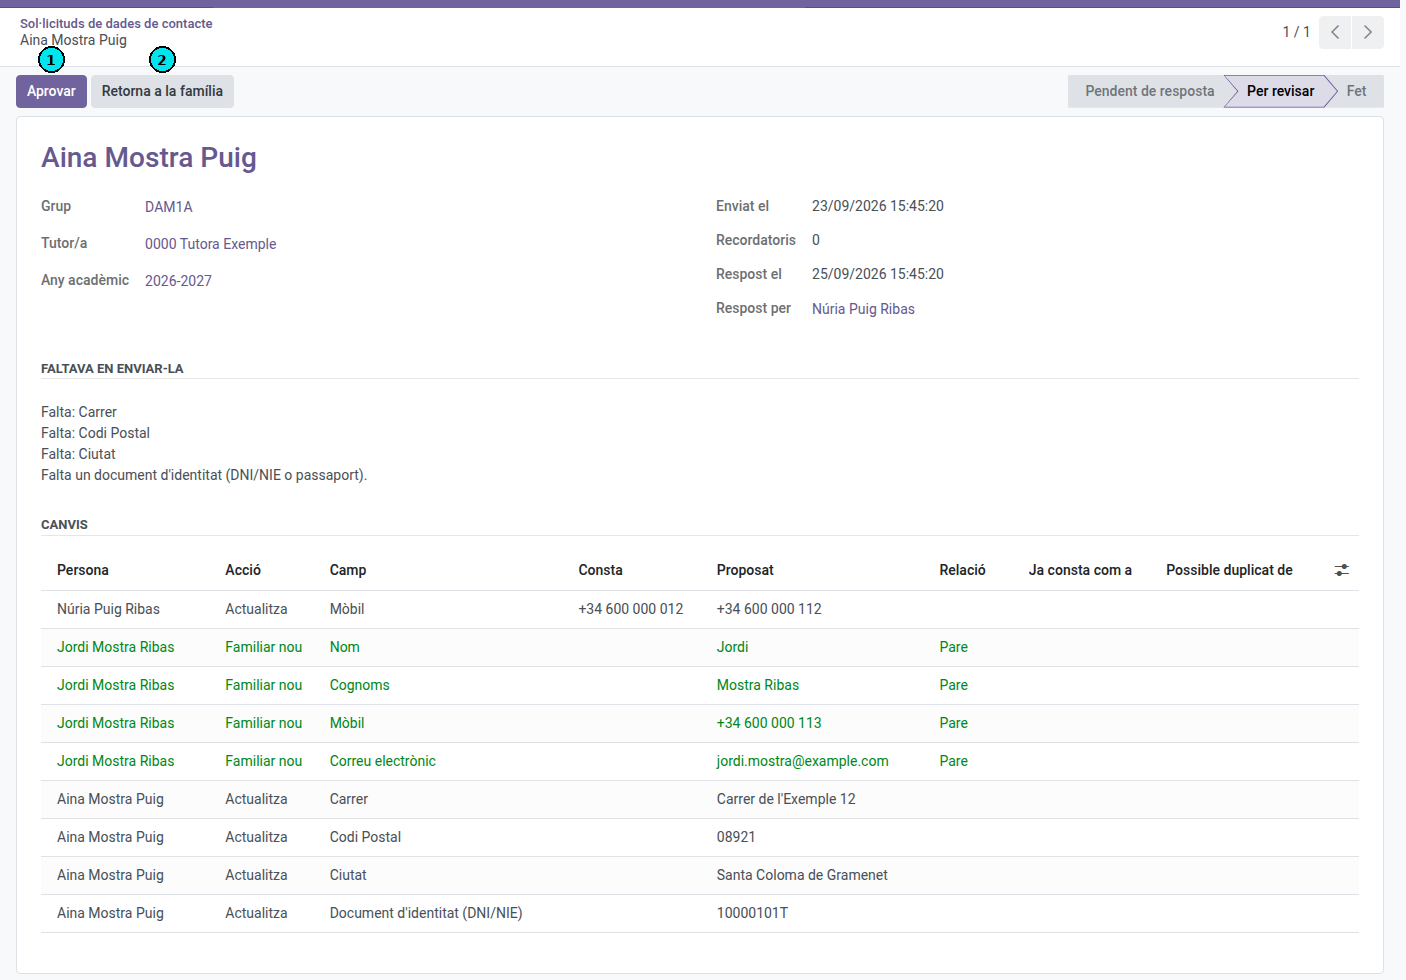
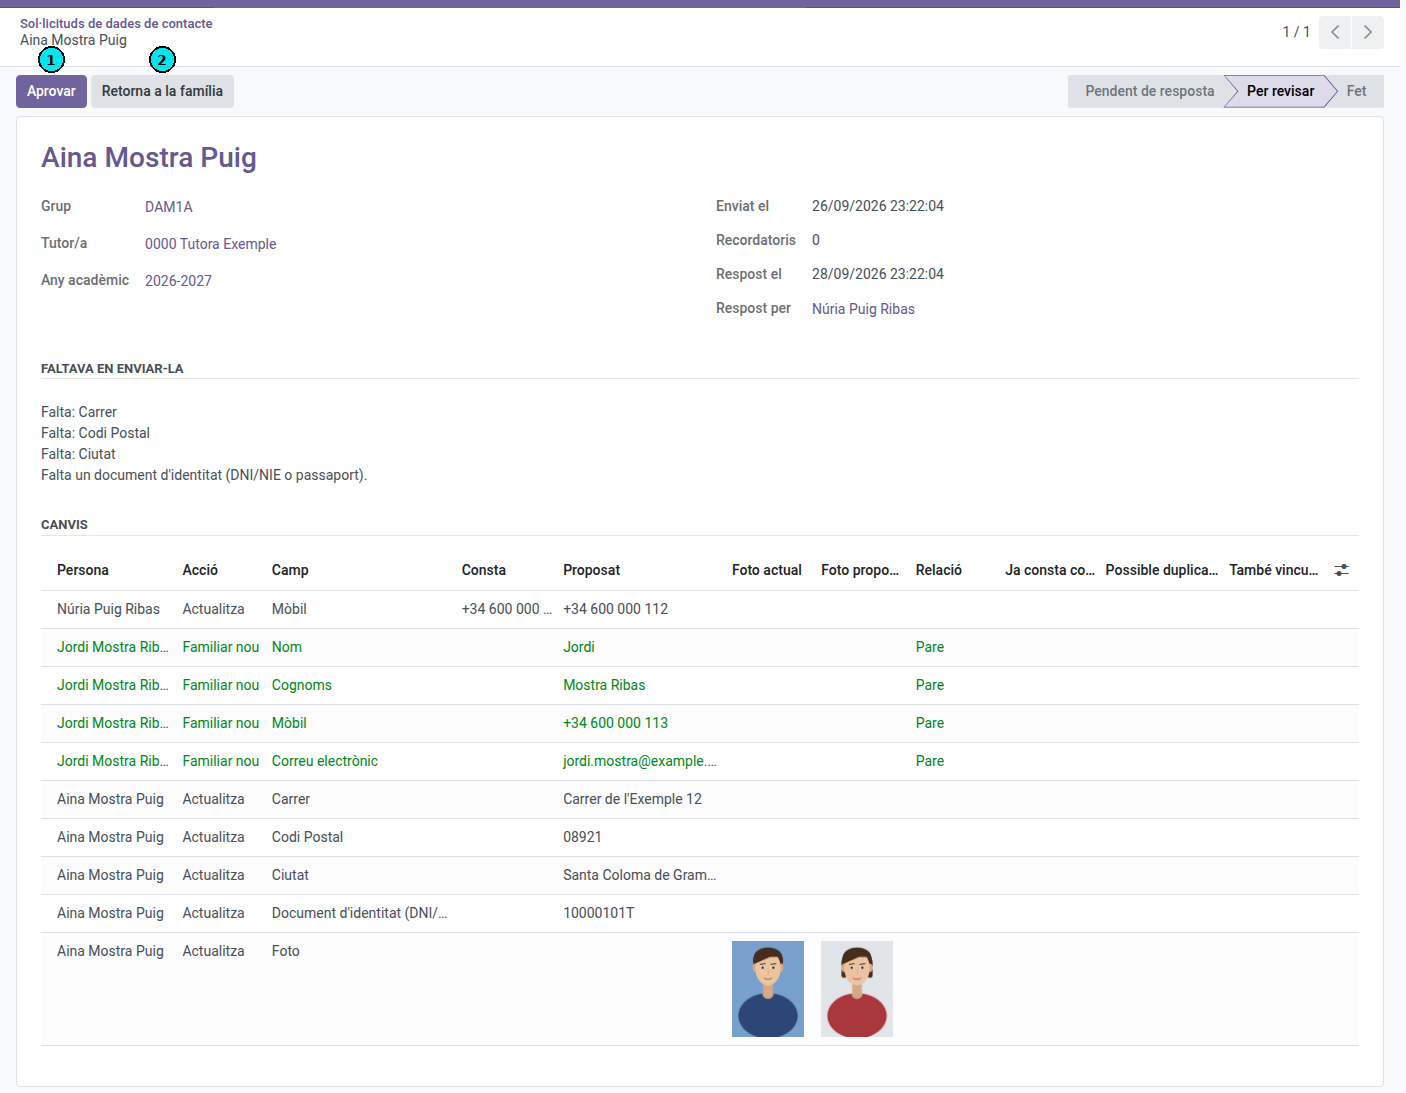
Student photo manuals for families and tutors
- ca/es/en: sending and framing the photo (families), comparing it (tutors)
- Screenshots on an invented student drawn with draw_invented_student_photo()

diff --git a/tests/common.py b/tests/common.py
@@ -4,6 +4,7 @@
 identically across dozens of test files)."""
 
 import base64
+import io
 import itertools
 import json
 import os
@@ -16,6 +17,82 @@ from odoo.tests.common import ChromeBrowser
 
 
 _test_student_id_sequence = itertools.count(1)
+
+
+# Looks of the invented student drawn by draw_invented_student_photo(): the photo on file (a
+# year ago: short hair, blue backdrop) and the new one (longer hair, light backdrop).
+INVENTED_STUDENT_LOOKS = {
+    'on_file': {'backdrop': (120, 160, 205), 'hair_length': 0.0, 'shirt': (45, 70, 120)},
+    'new': {'backdrop': (225, 228, 232), 'hair_length': 0.45, 'shirt': (170, 55, 60)},
+}
+
+
+def draw_invented_student_photo(look='new', full_length=False):
+    """PNG bytes of an illustrated (not photographic) portrait of an invented student, for the
+    manuals' screenshots: never a real person's face (CLAUDE.md, "Screenshots must never expose
+    real personal data"). `look` is a key of INVENTED_STUDENT_LOOKS; full_length draws the whole
+    body in a park, with the face small at the top, the kind of photo a family frames on the face
+    before sending it. Drawn at twice the size and scaled down, for smooth edges."""
+    from PIL import Image, ImageDraw
+
+    colors = INVENTED_STUDENT_LOOKS[look]
+    skin, skin_shade, hair = (236, 196, 160), (214, 168, 132), (70, 45, 30)
+    width, height = (900, 1600) if full_length else (600, 800)
+    image = Image.new('RGB', (width * 2, height * 2), colors['backdrop'])
+    draw = ImageDraw.Draw(image)
+    if full_length:
+        draw.rectangle([0, 0, width * 2, height * 2 * 0.62], fill=(170, 205, 235))
+        draw.rectangle([0, height * 2 * 0.62, width * 2, height * 2], fill=(120, 170, 95))
+        head, cx, top = 300, width, 740
+    else:
+        head, cx, top = 470, width, 400
+
+    def box(x0, y0, x1, y1):
+        return [cx + x0 * head, top + y0 * head, cx + x1 * head, top + y1 * head]
+
+    # Body: trousers and shoes for the full-length photo, then shirt, neck and shoulders.
+    if full_length:
+        draw.rectangle(box(-0.55, 2.9, -0.05, 6.4), fill=(50, 55, 75))
+        draw.rectangle(box(0.05, 2.9, 0.55, 6.4), fill=(50, 55, 75))
+        draw.ellipse(box(-0.75, 6.25, -0.02, 6.6), fill=(35, 35, 35))
+        draw.ellipse(box(0.02, 6.25, 0.75, 6.6), fill=(35, 35, 35))
+        draw.rounded_rectangle(box(-0.95, 1.05, -0.62, 2.9), radius=head * 0.15, fill=colors['shirt'])
+        draw.rounded_rectangle(box(0.62, 1.05, 0.95, 2.9), radius=head * 0.15, fill=colors['shirt'])
+        draw.ellipse(box(-0.95, 2.75, -0.62, 3.05), fill=skin)
+        draw.ellipse(box(0.62, 2.75, 0.95, 3.05), fill=skin)
+        draw.rounded_rectangle(box(-0.7, 0.95, 0.7, 3.0), radius=head * 0.25, fill=colors['shirt'])
+    else:
+        draw.ellipse(box(-1.05, 1.0, 1.05, 2.6), fill=colors['shirt'])
+    draw.rectangle(box(-0.17, 0.55, 0.17, 1.02), fill=skin_shade)
+    draw.pieslice(box(-0.2, 0.8, 0.2, 1.2), 0, 180, fill=skin_shade)
+    # Hair behind the head (down to the jaw on the sides when it is long), ears, face.
+    draw.ellipse(box(-0.53, -0.62, 0.53, 0.3), fill=hair)
+    if colors['hair_length']:
+        for side in (-1, 1):
+            left, right = sorted((side * 0.37, side * 0.55))
+            draw.rounded_rectangle(box(left, -0.2, right, colors['hair_length']), radius=head * 0.08, fill=hair)
+    draw.ellipse(box(-0.55, -0.05, -0.38, 0.25), fill=skin_shade)
+    draw.ellipse(box(0.38, -0.05, 0.55, 0.25), fill=skin_shade)
+    draw.ellipse(box(-0.45, -0.5, 0.45, 0.72), fill=skin)
+    # Fringe.
+    draw.chord(box(-0.5, -0.62, 0.5, 0.05), 180, 360, fill=hair)
+    draw.polygon([tuple(box(-0.46, -0.3, 0, 0)[:2]), tuple(box(0.1, -0.3, 0, 0)[:2]),
+                  tuple(box(-0.46, -0.05, 0, 0)[:2])], fill=hair)
+    # Eyebrows, eyes, nose, mouth.
+    for side in (-1, 1):
+        x = side * 0.19
+        draw.line(box(x - 0.1, -0.02, x + 0.1, -0.05)[:4], fill=hair, width=int(head * 0.035))
+        draw.ellipse(box(x - 0.08, 0.05, x + 0.08, 0.14), fill=(250, 250, 250))
+        draw.ellipse(box(x - 0.045, 0.05, x + 0.045, 0.14), fill=(80, 55, 40))
+        draw.ellipse(box(x - 0.02, 0.075, x + 0.02, 0.115), fill=(20, 20, 20))
+    draw.line(box(0.0, 0.15, 0.03, 0.33)[:4], fill=skin_shade, width=int(head * 0.025))
+    draw.line(box(0.03, 0.33, -0.04, 0.34)[:4], fill=skin_shade, width=int(head * 0.025))
+    draw.arc(box(-0.16, 0.34, 0.16, 0.52), 20, 160, fill=(170, 80, 80), width=int(head * 0.03))
+
+    image = image.resize((width, height), Image.LANCZOS)
+    stream = io.BytesIO()
+    image.save(stream, format='PNG')
+    return stream.getvalue()
 
 
 def next_student_id():

diff --git a/tests/test_docs_screenshots_tutors.py b/tests/test_docs_screenshots_tutors.py
@@ -11,6 +11,7 @@ One test method per manual (see docs/en/developers/shared/testing.md, "DocsScree
 by hand afterwards. The academic-history manual reuses existing captures of the same screens
 (teachers/secretary), so it has no method here.
 """
+import base64
 import json
 from datetime import date, datetime
 
@@ -20,7 +21,7 @@ from odoo.tests.common import HttpCase, tagged
 
 from .common import (
     DocsScreenshotMixin, create_level_study_group, create_role_employee, create_role_user,
-    mock_outgoing_email, next_student_id,
+    draw_invented_student_photo, mock_outgoing_email, next_student_id,
 )
 from .test_contact_data_request import valid_dni
 
@@ -437,7 +438,8 @@ class TestDocsScreenshotsTutors(DocsScreenshotMixin, HttpCase):
 
     def test_capture_contact_data_requests(self):
         """contact-data-requests (issue #507): the menu, the send assistant, the follow-up list and
-        an answer to review, as the group's tutor - all on three invented students."""
+        an answer to review, as the group's tutor - all on three invented students; and (issue #540)
+        the answer's new photo, compared with the one on file and zoomed on hover."""
         course = self.env['res.partner']._ems_running_course() \
             or self.env['ems.course'].create({'start': 2096, 'end': 2097, 'is_current': True})
         mother, father = self.env.ref('ems.relation_type_mother'), self.env.ref('ems.relation_type_father')
@@ -494,6 +496,9 @@ class TestDocsScreenshotsTutors(DocsScreenshotMixin, HttpCase):
         data['student'].update(street="Carrer de l'Exemple 12", zip='08921', city='Santa Coloma de Gramenet',
                                document_id=valid_dni(10000101))
         data['family'][0]['mobile'] = '+34 600 000 112'
+        # And a new photo (issue #540). Both are drawings of an invented student, never a real face.
+        self.classmate.image_1920 = base64.b64encode(draw_invented_student_photo('on_file'))
+        data['photo'] = Request._ems_photo_from_upload(draw_invented_student_photo('new'))[0]
         data['family'].append({
             'key': 'n0', 'id': False, 'remove': False, 'relation_type_id': father.id, 'firstname': 'Jordi',
             'lastname': 'Mostra Ribas', 'mobile': '+34 600 000 113', 'email': 'jordi.mostra@example.com'})
@@ -534,4 +539,20 @@ class TestDocsScreenshotsTutors(DocsScreenshotMixin, HttpCase):
             login=login, wait_for='.o_form_view .o_statusbar_status',
             marks=[(".o_form_statusbar button[name='action_approve']", '1', 'top'),
                    (".o_form_statusbar button[name='action_open_reject_wizard']", '2', 'top')],
+        )
+        # The photo change opened: both photos side by side.
+        photo_cell = "div[name='line_ids'] .o_data_row div[name='new_image'] img"
+        self._capture(
+            '%s/%d' % (action_url, answered.id), '.o_dialog .modal-content', 'dades-contacte-06-foto.png',
+            login=login, wait_for=photo_cell, click=photo_cell, wait_after='.o_dialog .o_ems_photo_compare img',
+        )
+        # Hovering a photo shows it bigger (the image widget's zoom): the mouse is not needed, the
+        # tooltip service reacts to the mouseenter event itself.
+        self._capture(
+            '%s/%d' % (action_url, answered.id), '#ems-clip', 'dades-contacte-05-foto-ampliada.png',
+            login=login, wait_for=photo_cell,
+            run=["document.querySelector(%s).dispatchEvent(new MouseEvent('mouseenter', {bubbles: false}))"
+                 % json.dumps(photo_cell),
+                 self._union_clip_js(["div[name='line_ids'] .o_data_row:last-child", '.o_image_zoom'])],
+            wait_after=['.o_image_zoom img', '#ems-clip'], beyond_viewport=False,
         )

diff --git a/tests/test_docs_screenshots_families.py b/tests/test_docs_screenshots_families.py
@@ -18,7 +18,7 @@ from dateutil.relativedelta import relativedelta
 
 from odoo.tests.common import HttpCase, tagged
 
-from .common import DocsScreenshotMixin, mock_outgoing_email, next_student_id
+from .common import DocsScreenshotMixin, draw_invented_student_photo, mock_outgoing_email, next_student_id
 
 
 @tagged('-standard', 'ems_screenshots', 'post_install', '-at_install')
@@ -130,7 +130,8 @@ class TestDocsScreenshotsFamilies(DocsScreenshotMixin, HttpCase):
 
     def test_capture_manual_dades_contacte(self):
         """manual-dades-contacte (issue #507): the Profile tab's button, the student's card, the
-        family section and the form marked in red after sending it incomplete."""
+        family section, the form marked in red after sending it incomplete, and (issue #540) a
+        photo framed in the photo editor."""
         # The family contact as the secretariat would have entered it. Creating the user
         # rewrote the name split in this class's fixtures: set it explicitly.
         self.family.write({'firstname': 'Marc', 'lastname': 'Exemple Vidal', 'mobile': '+34 600 000 003'})
@@ -191,6 +192,38 @@ class TestDocsScreenshotsFamilies(DocsScreenshotMixin, HttpCase):
         self._capture(
             url, ".o_ems_family_entry[data-key='n0']", 'dades-contacte-06-contacte-repetit.png',
             login=login, wait_for=wait, run=fill_and_send, wait_after='.o_ems_contact_match',
+        )
+
+        # The student's photo (issue #540): a full-length photo picked and framed on the face,
+        # next to the photo on file. Both are drawings of an invented student, never a real face.
+        (self.student | self.sibling).write({'image_1920': base64.b64encode(draw_invented_student_photo('on_file'))})
+        full_length = base64.b64encode(draw_invented_student_photo('new', full_length=True)).decode()
+        pick_photo = (
+            "(async function () {"
+            " var bytes = Uint8Array.from(atob(%s), function (c) { return c.charCodeAt(0); });"
+            " var transfer = new DataTransfer();"
+            " transfer.items.add(new File([bytes], 'foto.png', {type: 'image/png'}));"
+            " var input = document.querySelector(\"input[name='s_photo']\");"
+            " input.files = transfer.files;"
+            " input.dispatchEvent(new Event('change', {bubbles: true}));"
+            "})()" % json.dumps(full_length))
+        # What a family does by hand: zoom in and drag the photo until the face fills the frame
+        # (the face of draw_invented_student_photo(full_length=True) is around x=450, y=430).
+        frame_face = (
+            "(function () {"
+            " var cropper = document.querySelector('.o_ems_photo_source').cropper;"
+            " var box = cropper.getCropBoxData(); var ratio = box.height / 380;"
+            " cropper.zoomTo(ratio);"
+            " cropper.setCanvasData({left: box.left + box.width / 2 - 450 * ratio,"
+            "                        top: box.top + box.height / 2 - 430 * ratio});"
+            "})()")
+        self._capture(
+            url, '.o_ems_contact_data_photo', 'dades-contacte-07-foto.png', login=login, wait_for=wait,
+            run=[pick_photo, frame_face], wait_after=['.o_ems_photo_editor .cropper-container', '.o_ems_photo_new_preview img'],
+            # Capturing beyond the viewport resizes the page, and Cropper.js redraws mid-shot.
+            beyond_viewport=False,
+            marks=[('.o_ems_photo_stage', '1', 'right'), ('.o_ems_photo_rotate', '2', 'right'),
+                   ('.o_ems_photo_new', '3', 'right')],
         )
 
     def test_capture_portal_onboarding(self):

diff --git a/docs/es/families/manual-dades-contacte.md b/docs/es/families/manual-dades-contacte.md
@@ -33,6 +33,18 @@ Si tenéis más de un hijo o hija en el centro, elegid primero el alumno en el m
 - **Ya no es contacto**: marcadlo para un familiar con quien ya no se debe contactar.
 - El nombre y la fecha de nacimiento del alumno no se pueden cambiar aquí: para corregirlos, contactad con la secretaría.
 
+## Foto del alumno
+
+La foto es opcional. Sirve para que el profesorado reconozca al alumno en las listas de clase.
+
+1. En el bloque **Foto**, haced clic en el botón para elegir un archivo y elegid una foto reciente en JPG o PNG, con la cara descubierta.
+2. La foto se abre en un marco vertical (1). Arrastradla para moverla y ampliadla hasta que la cara llene el marco: con la barra, con los botones de lupa o con la rueda del ratón (en el móvil, pellizcando). El botón de la flecha gira la foto (2).
+3. Junto a la **Foto actual** veis cómo quedará la **Foto nueva** (3). Solo se envía la parte que queda dentro del marco.
+
+![Bloque Foto: la foto elegida dentro del marco, los controles para ampliar y girar, y la foto nueva junto a la actual](../../assets/families/dades-contacte-07-foto.png)
+
+Para no cambiar la foto, haced clic en **Mantener la foto actual**. La foto nueva, como el resto de cambios, se aplica cuando el centro la revisa.
+
 ## Varios hijos
 
 Un familiar que añadís también se ofrece para vuestros otros hijos e hijas del centro: en **También es contacto de**, dejad marcados los hijos de los que es contacto. Cuando el centro lo aprueba, queda vinculado a todos, y no hace falta añadirlo de nuevo para cada hijo.

diff --git a/docs/en/families/manual-dades-contacte.md b/docs/en/families/manual-dades-contacte.md
@@ -33,6 +33,18 @@ If you have more than one child at the school, choose the student in the menu at
 - **No longer a contact**: tick it for a family contact who should no longer be contacted.
 - The name and the birth date of the student cannot be changed here: to correct them, contact the secretary's office.
 
+## Student's photo
+
+The photo is optional. It helps the teachers recognise the student on the class lists.
+
+1. In the **Photo** block, click the button to choose a file and pick a recent photo in JPG or PNG, with the face uncovered.
+2. The photo opens in a portrait frame (1). Drag it to move it and zoom in until the face fills the frame: with the slider, the magnifier buttons or the mouse wheel (on a phone, by pinching). The arrow button rotates the photo (2).
+3. Next to the **Photo on file** you see how the **New photo** will look (3). Only the part inside the frame is sent.
+
+![Photo block: the photo picked inside the frame, the zoom and rotate controls, and the new photo next to the one on file](../../assets/families/dades-contacte-07-foto.png)
+
+To keep the current photo, click **Keep the photo on file**. The new photo, like every other change, is applied once the school reviews it.
+
 ## Several children
 
 A family contact you add is also offered for your other children at the school: under **Also a contact of**, leave ticked the children they are a contact of. Once the school approves it they are linked to all of them, so you do not have to add them again for each child.

diff --git a/docs/ca/families/manual-dades-contacte.md b/docs/ca/families/manual-dades-contacte.md
@@ -33,6 +33,18 @@ Si teniu més d'un fill o filla al centre, primer trieu l'alumne al menú de dal
 - **Ja no és contacte**: marqueu-ho per a un familiar amb qui ja no s'ha de contactar.
 - El nom i la data de naixement de l'alumne no es poden canviar aquí: per corregir-los, contacteu amb la secretaria.
 
+## Foto de l'alumne
+
+La foto és opcional. Serveix perquè el professorat reconegui l'alumne a les llistes de classe.
+
+1. Al bloc **Foto**, feu clic al botó per triar un fitxer i trieu una foto recent en JPG o PNG, amb la cara descoberta.
+2. La foto s'obre en un marc vertical (1). Arrossegueu-la per moure-la i amplieu-la fins que la cara ompli el marc: amb la barra, amb els botons de lupa o amb la roda del ratolí (al mòbil, pessigant). El botó de la fletxa gira la foto (2).
+3. Al costat de la **Foto actual** veieu com quedarà la **Foto nova** (3). Només s'envia la part que queda dins del marc.
+
+![Bloc Foto: la foto triada dins del marc, els controls per ampliar i girar, i la foto nova al costat de l'actual](../../assets/families/dades-contacte-07-foto.png)
+
+Per no canviar la foto, feu clic a **Mantenir la foto actual**. La foto nova, com la resta de canvis, s'aplica quan el centre la revisa.
+
 ## Diversos fills
 
 Un familiar que afegiu també s'ofereix per als altres fills i filles del centre: a **També és contacte de**, deixeu marcats els fills dels quals és contacte. Quan el centre l'aprova, queda vinculat a tots, i no cal tornar-lo a afegir per a cada fill.

diff --git a/docs/ca/tutors/contact-data-requests.md b/docs/ca/tutors/contact-data-requests.md
@@ -59,6 +59,14 @@ Feu servir els filtres **Pendent de resposta**, **Per revisar**, **Pendents fa m
 
 Si un canvi afegeix un familiar, la columna **També vinculat a** indica els altres fills de la família als quals també es vincula: en aprovar-lo es fa.
 
+Si la família ha enviat una foto nova de l'alumne, la fila **Foto** mostra la **Foto actual** i la **Foto proposada**. Passeu el ratolí per sobre d'una foto per veure-la més gran.
+
+![Una foto de la llista de canvis, ampliada en passar-hi el ratolí per sobre](../../assets/tutors/dades-contacte-05-foto-ampliada.png)
+
+Feu clic a la fila per comparar-les una al costat de l'altra, a mida gran. En aprovar la sol·licitud, la foto proposada passa a la fitxa de l'alumne.
+
+![La foto actual i la proposada una al costat de l'altra](../../assets/tutors/dades-contacte-06-foto.png)
+
 Per aprovar-ne diverses alhora, seleccioneu-les a la llista i feu clic a **Aprovar**.
 
 ## Retornar una resposta a la família

diff --git a/docs/es/tutors/contact-data-requests.md b/docs/es/tutors/contact-data-requests.md
@@ -59,6 +59,14 @@ Usad los filtros **Pendiente de respuesta**, **Por revisar**, **Pendientes desde
 
 Si un cambio añade un familiar, la columna **También vinculado a** indica los otros hijos de la familia a los que también se vincula: al aprobarlo se hace.
 
+Si la familia ha enviado una foto nueva del alumno, la fila **Foto** muestra la **Foto actual** y la **Foto propuesta**. Pasad el ratón por encima de una foto para verla más grande.
+
+![Una foto de la lista de cambios, ampliada al pasar el ratón por encima](../../assets/tutors/dades-contacte-05-foto-ampliada.png)
+
+Haced clic en la fila para compararlas una al lado de la otra, a tamaño grande. Al aprobar la solicitud, la foto propuesta pasa a la ficha del alumno.
+
+![La foto actual y la propuesta una al lado de la otra](../../assets/tutors/dades-contacte-06-foto.png)
+
 Para aprobar varias a la vez, seleccionadlas en la lista y haced clic en **Aprobar**.
 
 ## Devolver una respuesta a la familia

diff --git a/docs/en/tutors/contact-data-requests.md b/docs/en/tutors/contact-data-requests.md
@@ -59,6 +59,14 @@ Use the filters **Pending answer**, **To review**, **Pending for more than a wee
 
 If a change adds a family contact, the **Also linked to** column lists the family's other children it is linked to as well: approving does it.
 
+If the family sent a new photo of the student, the **Photo** row shows the **Photo on file** and the **Proposed photo**. Hover over a photo to see it bigger.
+
+![A photo in the list of changes, zoomed in on hover](../../assets/tutors/dades-contacte-05-foto-ampliada.png)
+
+Click the row to compare them side by side, at a large size. Approving the request puts the proposed photo on the student's record.
+
+![The photo on file and the proposed one side by side](../../assets/tutors/dades-contacte-06-foto.png)
+
 To approve several at once, select them in the list and click **Approve**.
 
 ## Returning an answer to the family

diff --git a/changelog/540-student-photo-portal-contact-data.md b/changelog/540-student-photo-portal-contact-data.md
@@ -17,6 +17,8 @@
   metadata (a phone photo carries the GPS position where it was taken).
 - A photo already sent is kept when the form comes back with errors or is sent again while it
   waits for review, so the family does not have to pick it again.
+- Family and tutor manuals (Catalan, Spanish, English) explain how to send and review the photo,
+  with screenshots on an invented student drawn as an illustration.
 
 # Fixes
 
